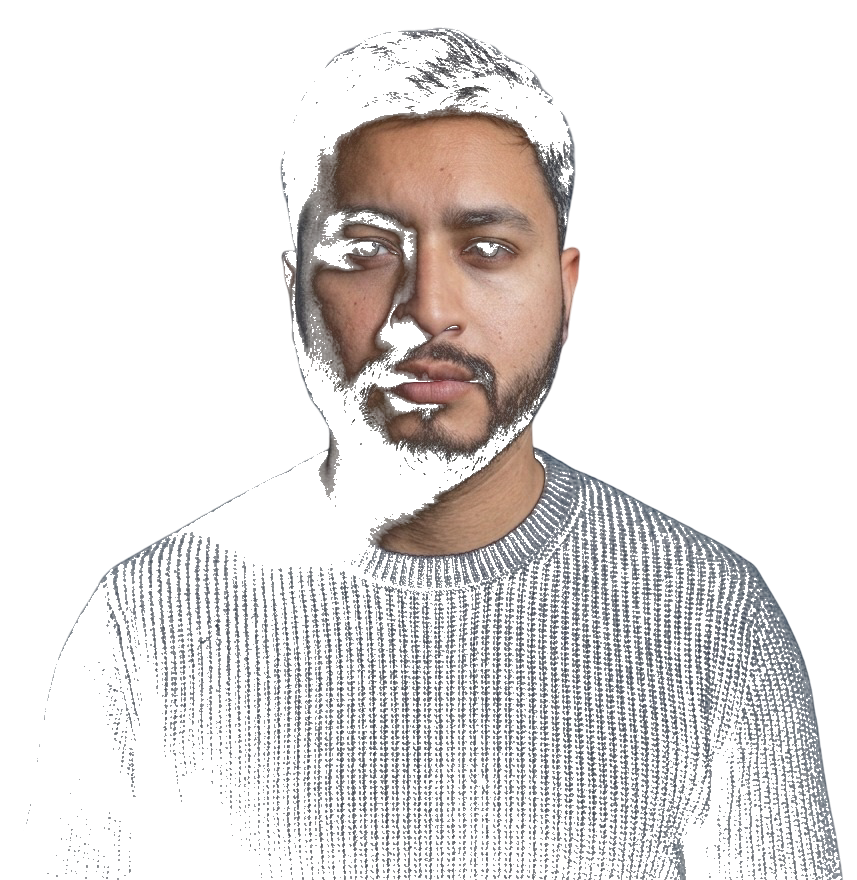
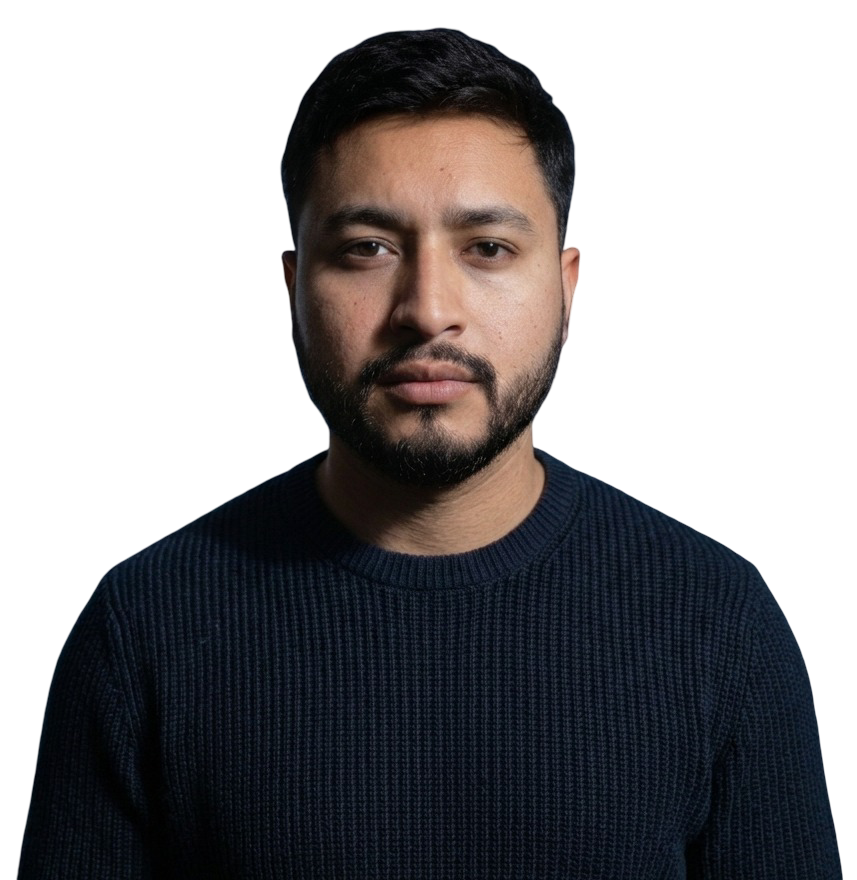
Hero light mode: hide photo, restore original PNG for dark mode

diff --git a/index.html b/index.html
@@ -232,7 +232,7 @@
       background: linear-gradient(to right, var(--bg) 0%, transparent 20%, transparent 80%, var(--bg) 100%),
                   linear-gradient(to bottom, transparent 72%, var(--bg) 100%);
     }
-    body.light .hero-photo { mix-blend-mode: multiply; }
+    body.light .hero-center { display: none; }
 
     /* Photo floating centered between both columns — transparent PNG */
     .hero-center {